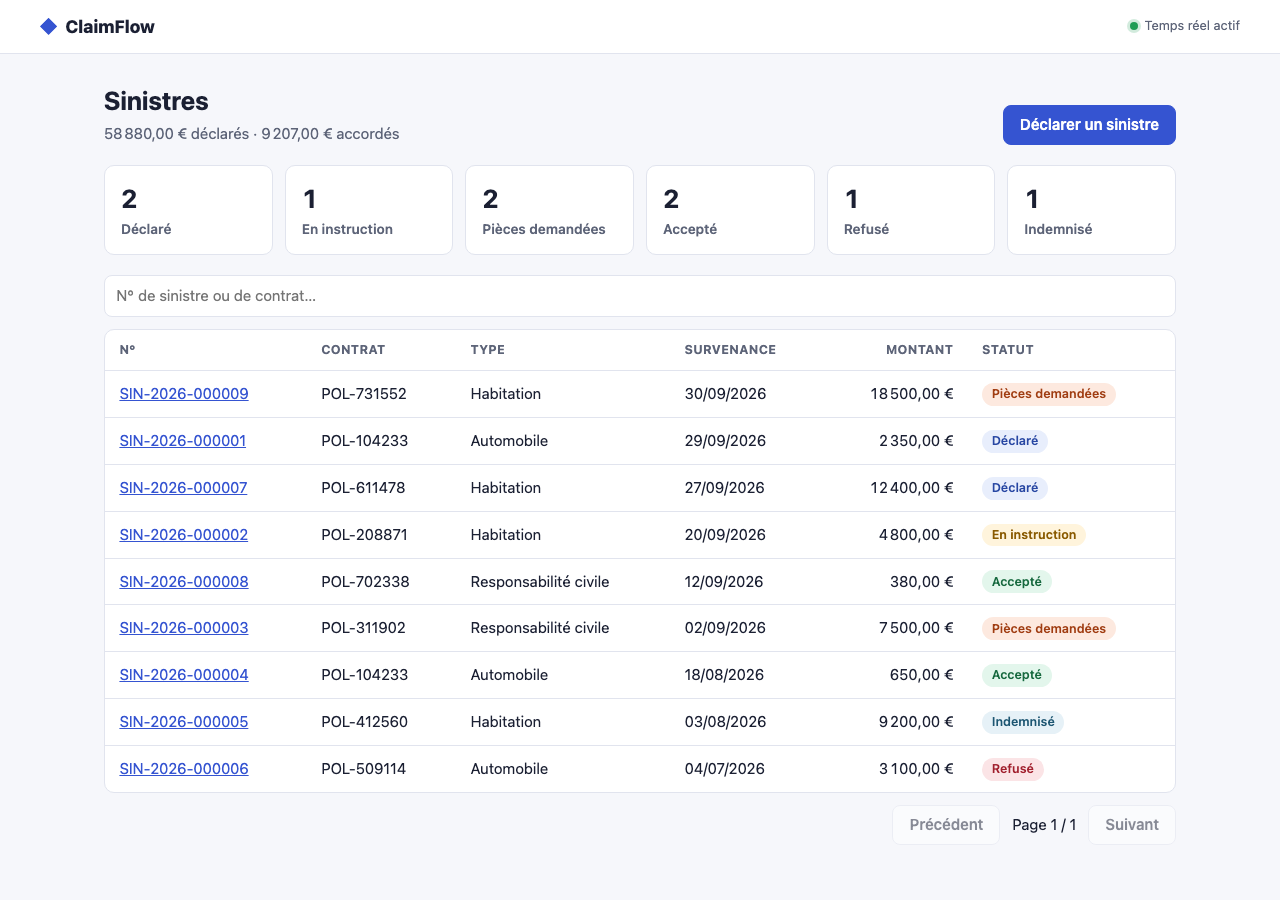
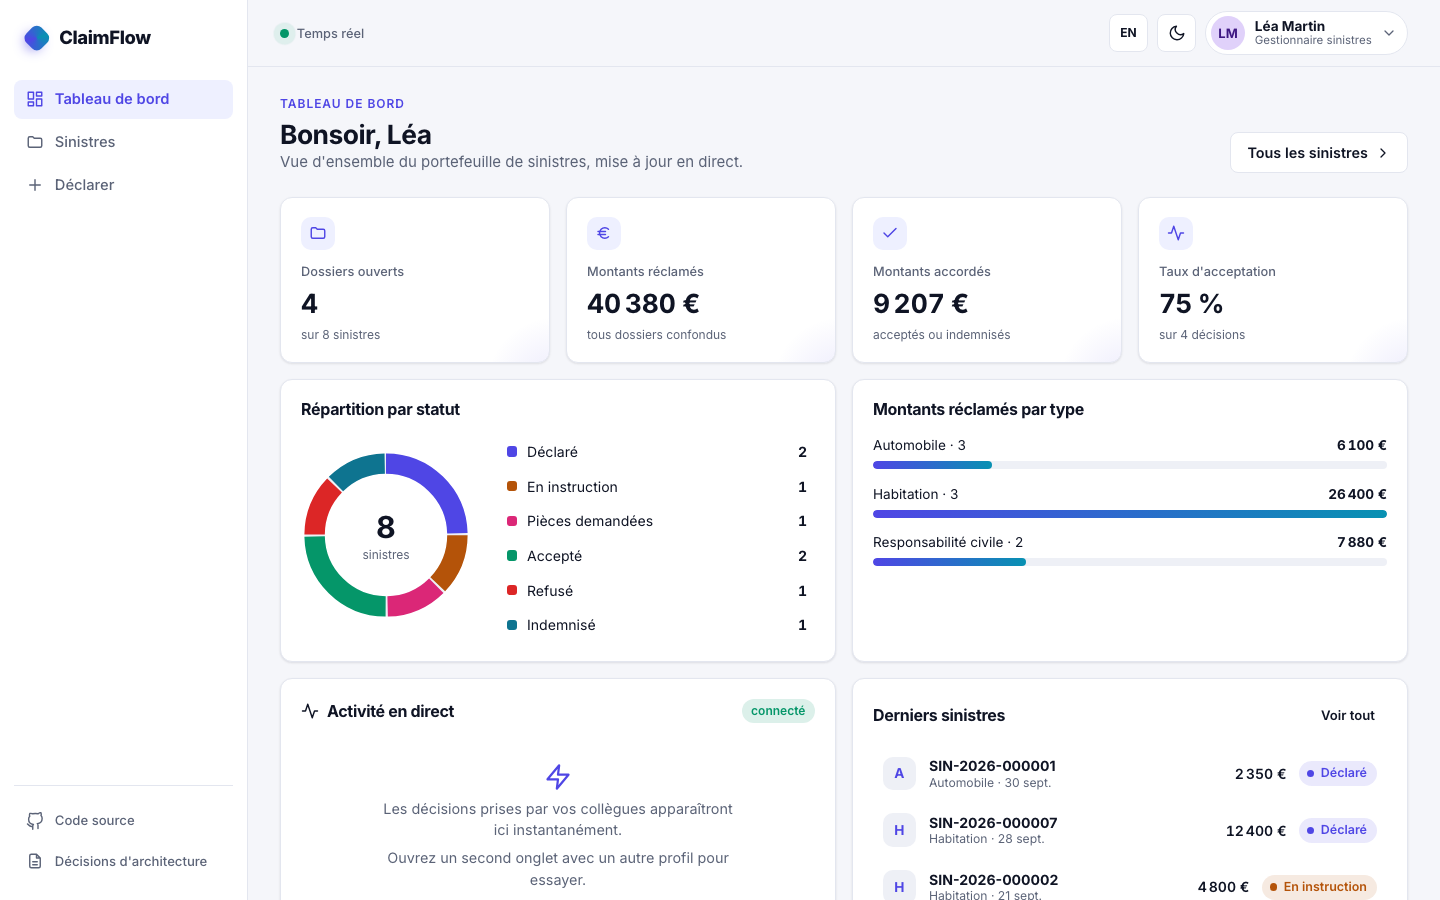
docs: add production screenshots; show demo profiles first on mobile
Dependabot now ignores TypeScript majors, which follow Angular's own
supported range (the TypeScript 7 bump was caught by CI).

diff --git a/web/src/environments/environment.production.ts b/web/src/environments/environment.production.ts
@@ -1,5 +1,5 @@
 /** Production: the SPA (Vercel) calls the API (Azure Container Apps) directly; CORS allows this origin only. */
 export const environment = {
-  apiBaseUrl: 'https://claimflow-api.whiteflower-ba057134.italynorth.azurecontainerapps.io',
+  apiBaseUrl: 'https://claimflow-api.lemondune-f6dce829.italynorth.azurecontainerapps.io',
   repositoryUrl: 'https://github.com/JASSBR/claimflow',
 };

diff --git a/README.md b/README.md
@@ -18,6 +18,17 @@ and an AI reviewer that backs every finding with a quoted page.
 
 ![Dashboard](docs/images/dashboard.png)
 
+<table>
+  <tr>
+    <td width="50%"><img src="docs/images/claim-detail.png" alt="Claim file with evidence, decision panel and audit trail"></td>
+    <td width="50%"><img src="docs/images/dashboard-dark-en.png" alt="Dashboard in English, dark theme"></td>
+  </tr>
+  <tr>
+    <td align="center"><sub>Claim file: workflow, evidence, AI review, decision rules, audit trail</sub></td>
+    <td align="center"><sub>English build, dark theme</sub></td>
+  </tr>
+</table>
+
 </div>
 
 ## Try it in 3 minutes
